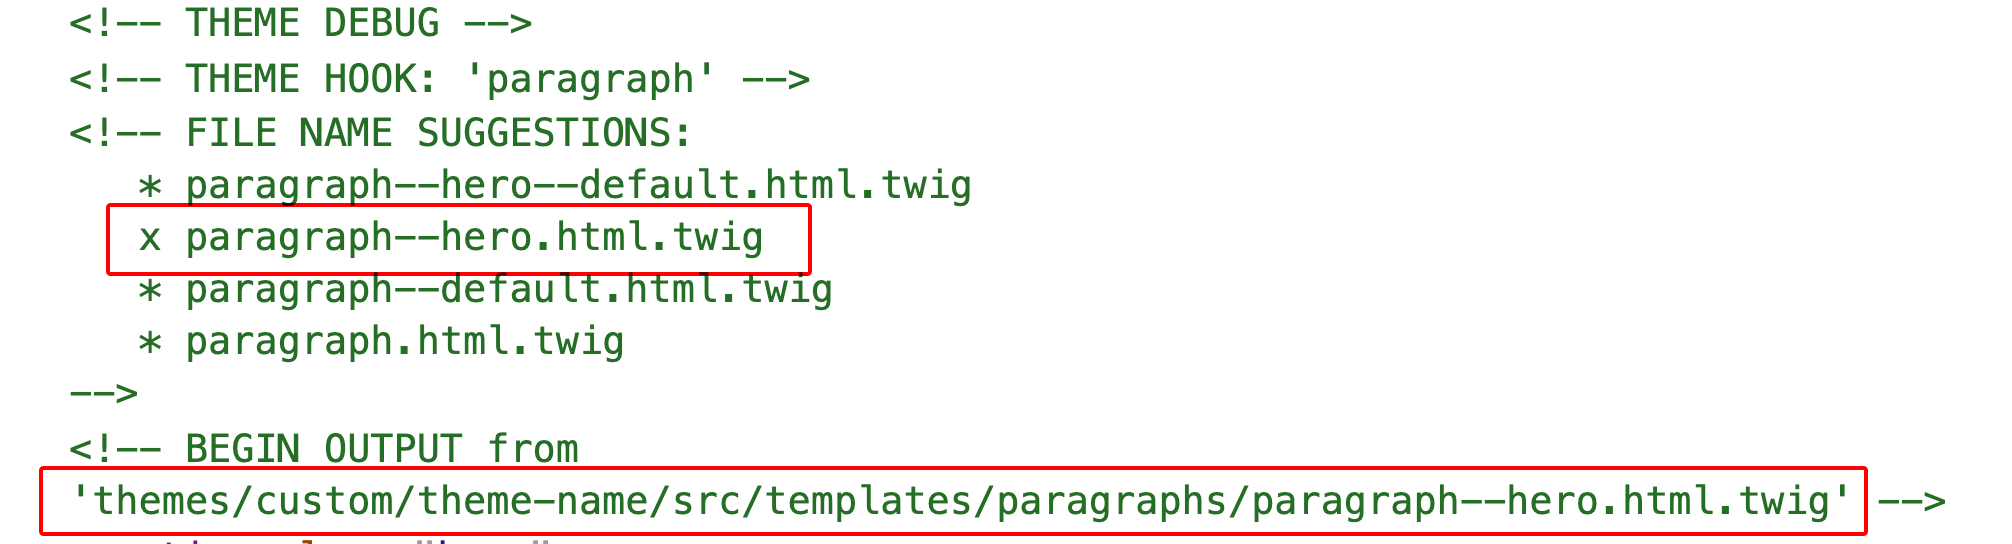
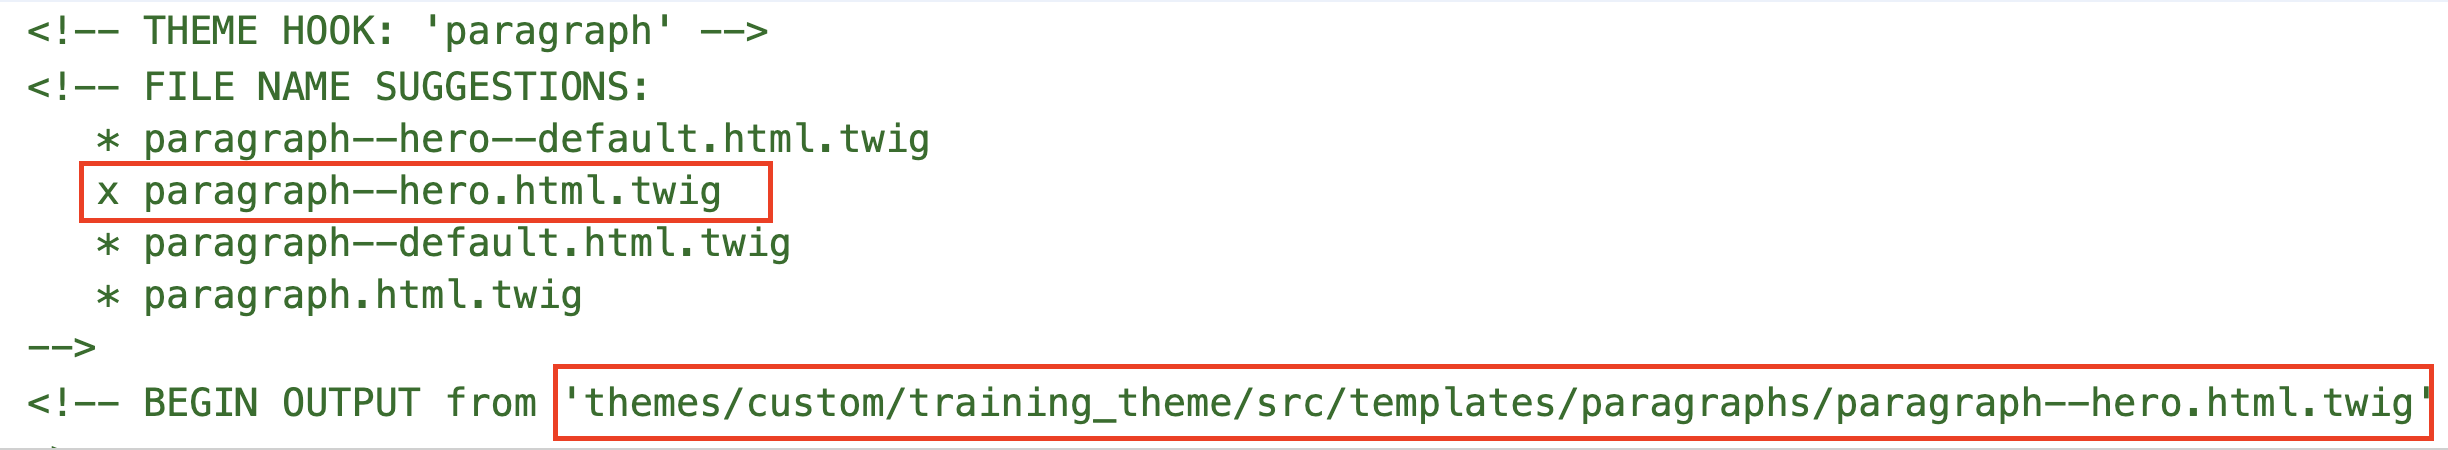
GitBook: [master] one page and one asset modified

Changed region(s): [[0.0, 0.7778, 1.0, 1.0], [0.0, 0.0, 0.493, 0.6844], [0.0, 0.7156, 0.0924, 0.7778]]

diff --git a/component-lifecycle/twig-template-suggestions.md b/component-lifecycle/twig-template-suggestions.md
@@ -6,6 +6,34 @@
 
 If you have been using Drupal for a while you may be well familiar with where to get templates from or what to name them. However if you've never worked with template suggestion no worries, Twig debugging, which [you should have enabled](https://www.drupal.org/node/2598914) in the previous page, will help us identify the templates we need.
 
+### Examples of Twig template suggestions
+
+Template suggestions can be generic or extremely specific depending on the task at hand.  Below are two examples of naming conventions for template suggestions; one for **Node types** and the other for **Paragraph types**.
+
+{% tabs %}
+{% tab title="node" %}
+```text
+node--[nodeid]--[viewmode].html.twig
+node--[nodeid].html.twig
+node--[content-type]--[viewmode].html.twig
+node--[content-type].html.twig
+node--[viewmode].html.twig
+node.html.twig
+```
+{% endtab %}
+{% endtabs %}
+
+{% tabs %}
+{% tab title="paragraph" %}
+```text
+paragraph--[paragraph-type]--[viewmode].html.twig
+paragraph--[paragraph-type].html.twig
+paragraph--[viewmode].html.twig
+paragraph.html.twig
+```
+{% endtab %}
+{% endtabs %}
+
 ### Exercise:  Debugging the Hero paragraph type
 
 * In your Drupal site, create  a basic page node and add a Hero, or visit a page that already has a Hero
@@ -28,12 +56,12 @@ If you look at the image above, you will see a few things that are extremely hel
 Based on the Twig debugging code above we see Drupal is using a Paragraph template to render the Hero.  This is because we created a Paragraph type called Hero to use as the data entry form for any Hero. 
 
 1. The last line of green text \(`BEGIN OUTPUT...`\) shows where the paragraph template being used is located \(`modules/contrib/paragraphs/templates/paragraph.html.twig`\).
-2. Navigate to that path and copy the `paragraph.html.twig` template then paste it inside your project's `/themes/custom/<theme-name>/src/templates/paragraphs/` \(if this path does not exist in your theme, create it\).
+2. Copy`paragraph.html.twig` from its original location into your project's `/themes/custom/training_theme/src/templates/paragraphs/` \(if this path does not exist in your theme, create it\).
 3. Rename the newly copied template in your theme to `paragraph--hero.html.twig`.  Why this name?  Well, while we could had used any of the suggested names above, this name is the one that makes the most sense for our template suggestion.  Now every time the Hero component is rendered, Drupal will use this new template and not the one under the Paragraph's module.
 4. Next clear Drupal's cache
 5. Reload the page and inspect the code one more time.
 
-![Example of Twig debug after template suggestion was created.](../.gitbook/assets/debug-after.png)
+![](../.gitbook/assets/debug-after.png)
 
 Notice there is an **"X"** next to `paragraph--hero.html.twig`, which means Drupal is now using our custom twig template suggestion. Also notice the path of the template is now our own theme's template directory.
 
